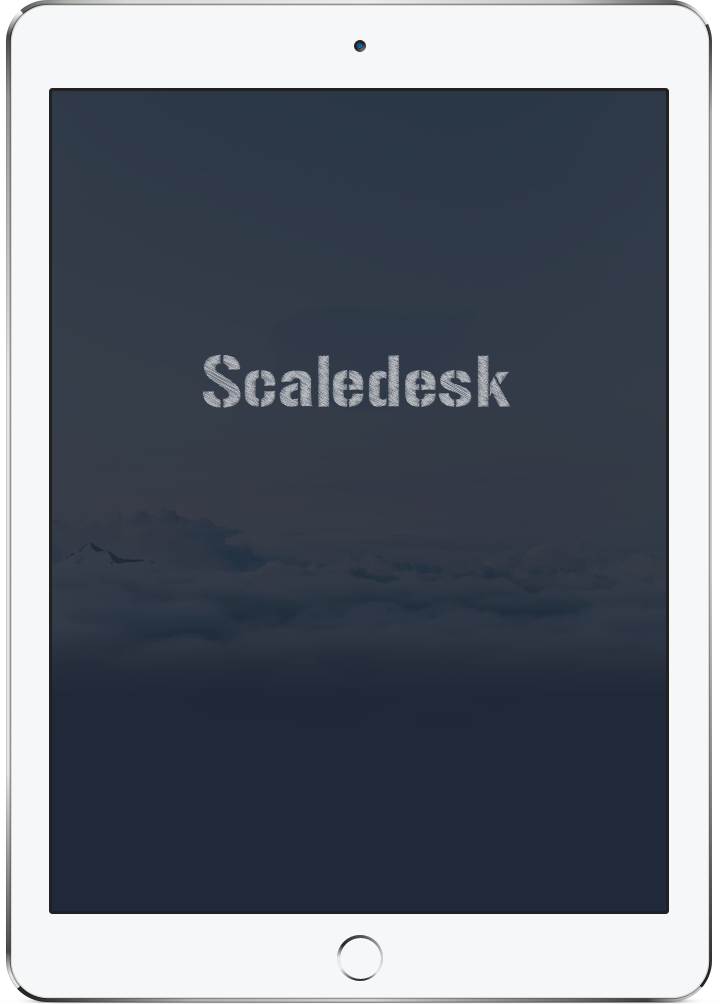
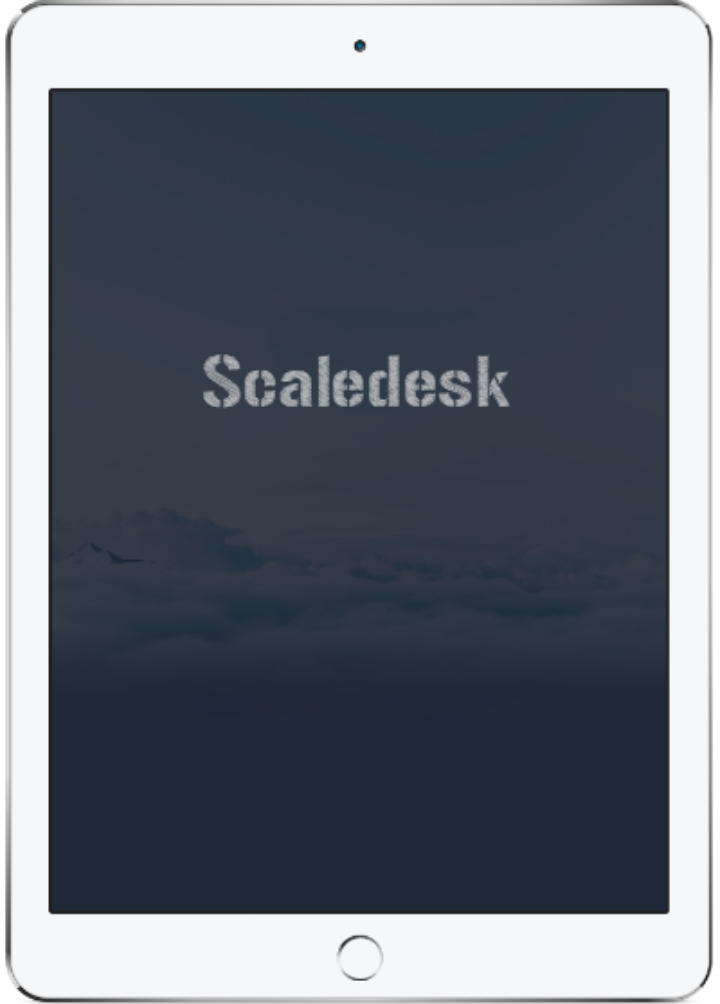
images optimised

diff --git a/pointy-slider/css/style.css b/pointy-slider/css/style.css
@@ -73,16 +73,16 @@ Slider
   background-repeat: no-repeat;
 }
 .cd-slider li:first-of-type .image {
-  background-image: url(../img/humara.png);
+  background-image: url(../img/humara.jpg);
 }
 .cd-slider li:nth-of-type(2) .image {
-  background-image: url(../img/shaleena.png);
+  background-image: url(../img/shaleena.jpg);
 }
 .cd-slider li:nth-of-type(3) .image {
-  background-image: url(../img/chawri.png);
+  background-image: url(../img/chawri.jpg);
 }
 .cd-slider li:nth-of-type(4) .image {
-  background-image: url(../img/travally.png);
+  background-image: url(../img/asap.jpg);
 }
 .cd-slider .image {
   background-size: contain;

diff --git a/index.php b/index.php
@@ -339,7 +339,7 @@
                         <p>
                             A Mobile friendly Landing page for the Hum-Ara app. 
                         </p>
-                        <a href="http://hum-ara.com/" class="btn">Check</a>
+                        <a href="http://hum-ara.com/" class="btn">Check out website</a>
                     </div>
                 </div>
             </li> <!-- .cd-half-block.content -->
@@ -353,7 +353,7 @@
                         <p>
                             A complete e-commerce solution for online online Custom made women designer apparels. 
                         </p>
-                        <a href="http://www.shaleenanowbuth.com/" class="btn">Check</a>
+                        <a href="http://www.shaleenanowbuth.com/" class="btn">Check out website</a>
                     </div>
                 </div> <!-- .cd-half-block.content -->
             </li>
@@ -367,7 +367,7 @@
                         <p>
                             An Online Marketplace for Buying and Selling of Paper in bulk.  
                         </p>
-                        <a href="http://www.chawrionline.com/" class="btn">Check</a>
+                        <a href="http://www.chawrionline.com/" class="btn">Check out website</a>
                     </div>
                 </div> <!-- .cd-half-block.content -->
             </li>
@@ -381,7 +381,7 @@
                         <p>
                            A unique business initiative to help enthusiast to get all possible hardware or materials under single roof irrespective of event type.
                         </p>
-                        <a href="http://www.asaphardwaresolutions.com" class="btn">Check out the Website</a>
+                        <a href="http://www.asaphardwaresolutions.com" class="btn">Check out Website</a>
                     </div>
                 </div> <!-- .cd-half-block.content -->
             </li>
@@ -515,7 +515,7 @@
                                 <p class="author">Milton Glaser</p>
                             </li>
                             <li>
-                                <div class="avatar"><img src="img/130.jpg" alt="Scaledesk Testimonial Avatar"></div>
+                                <div class="avatar"><img src="img/jobs.jpg" alt="Scaledesk Testimonial Avatar"></div>
                                 <h2>“Sometimes when you innovate, you make mistakes. It is best to admit them quickly, and get on with improving your other innovations.”
 </h2>
                                 <p class="author">Steve JObs</p>
